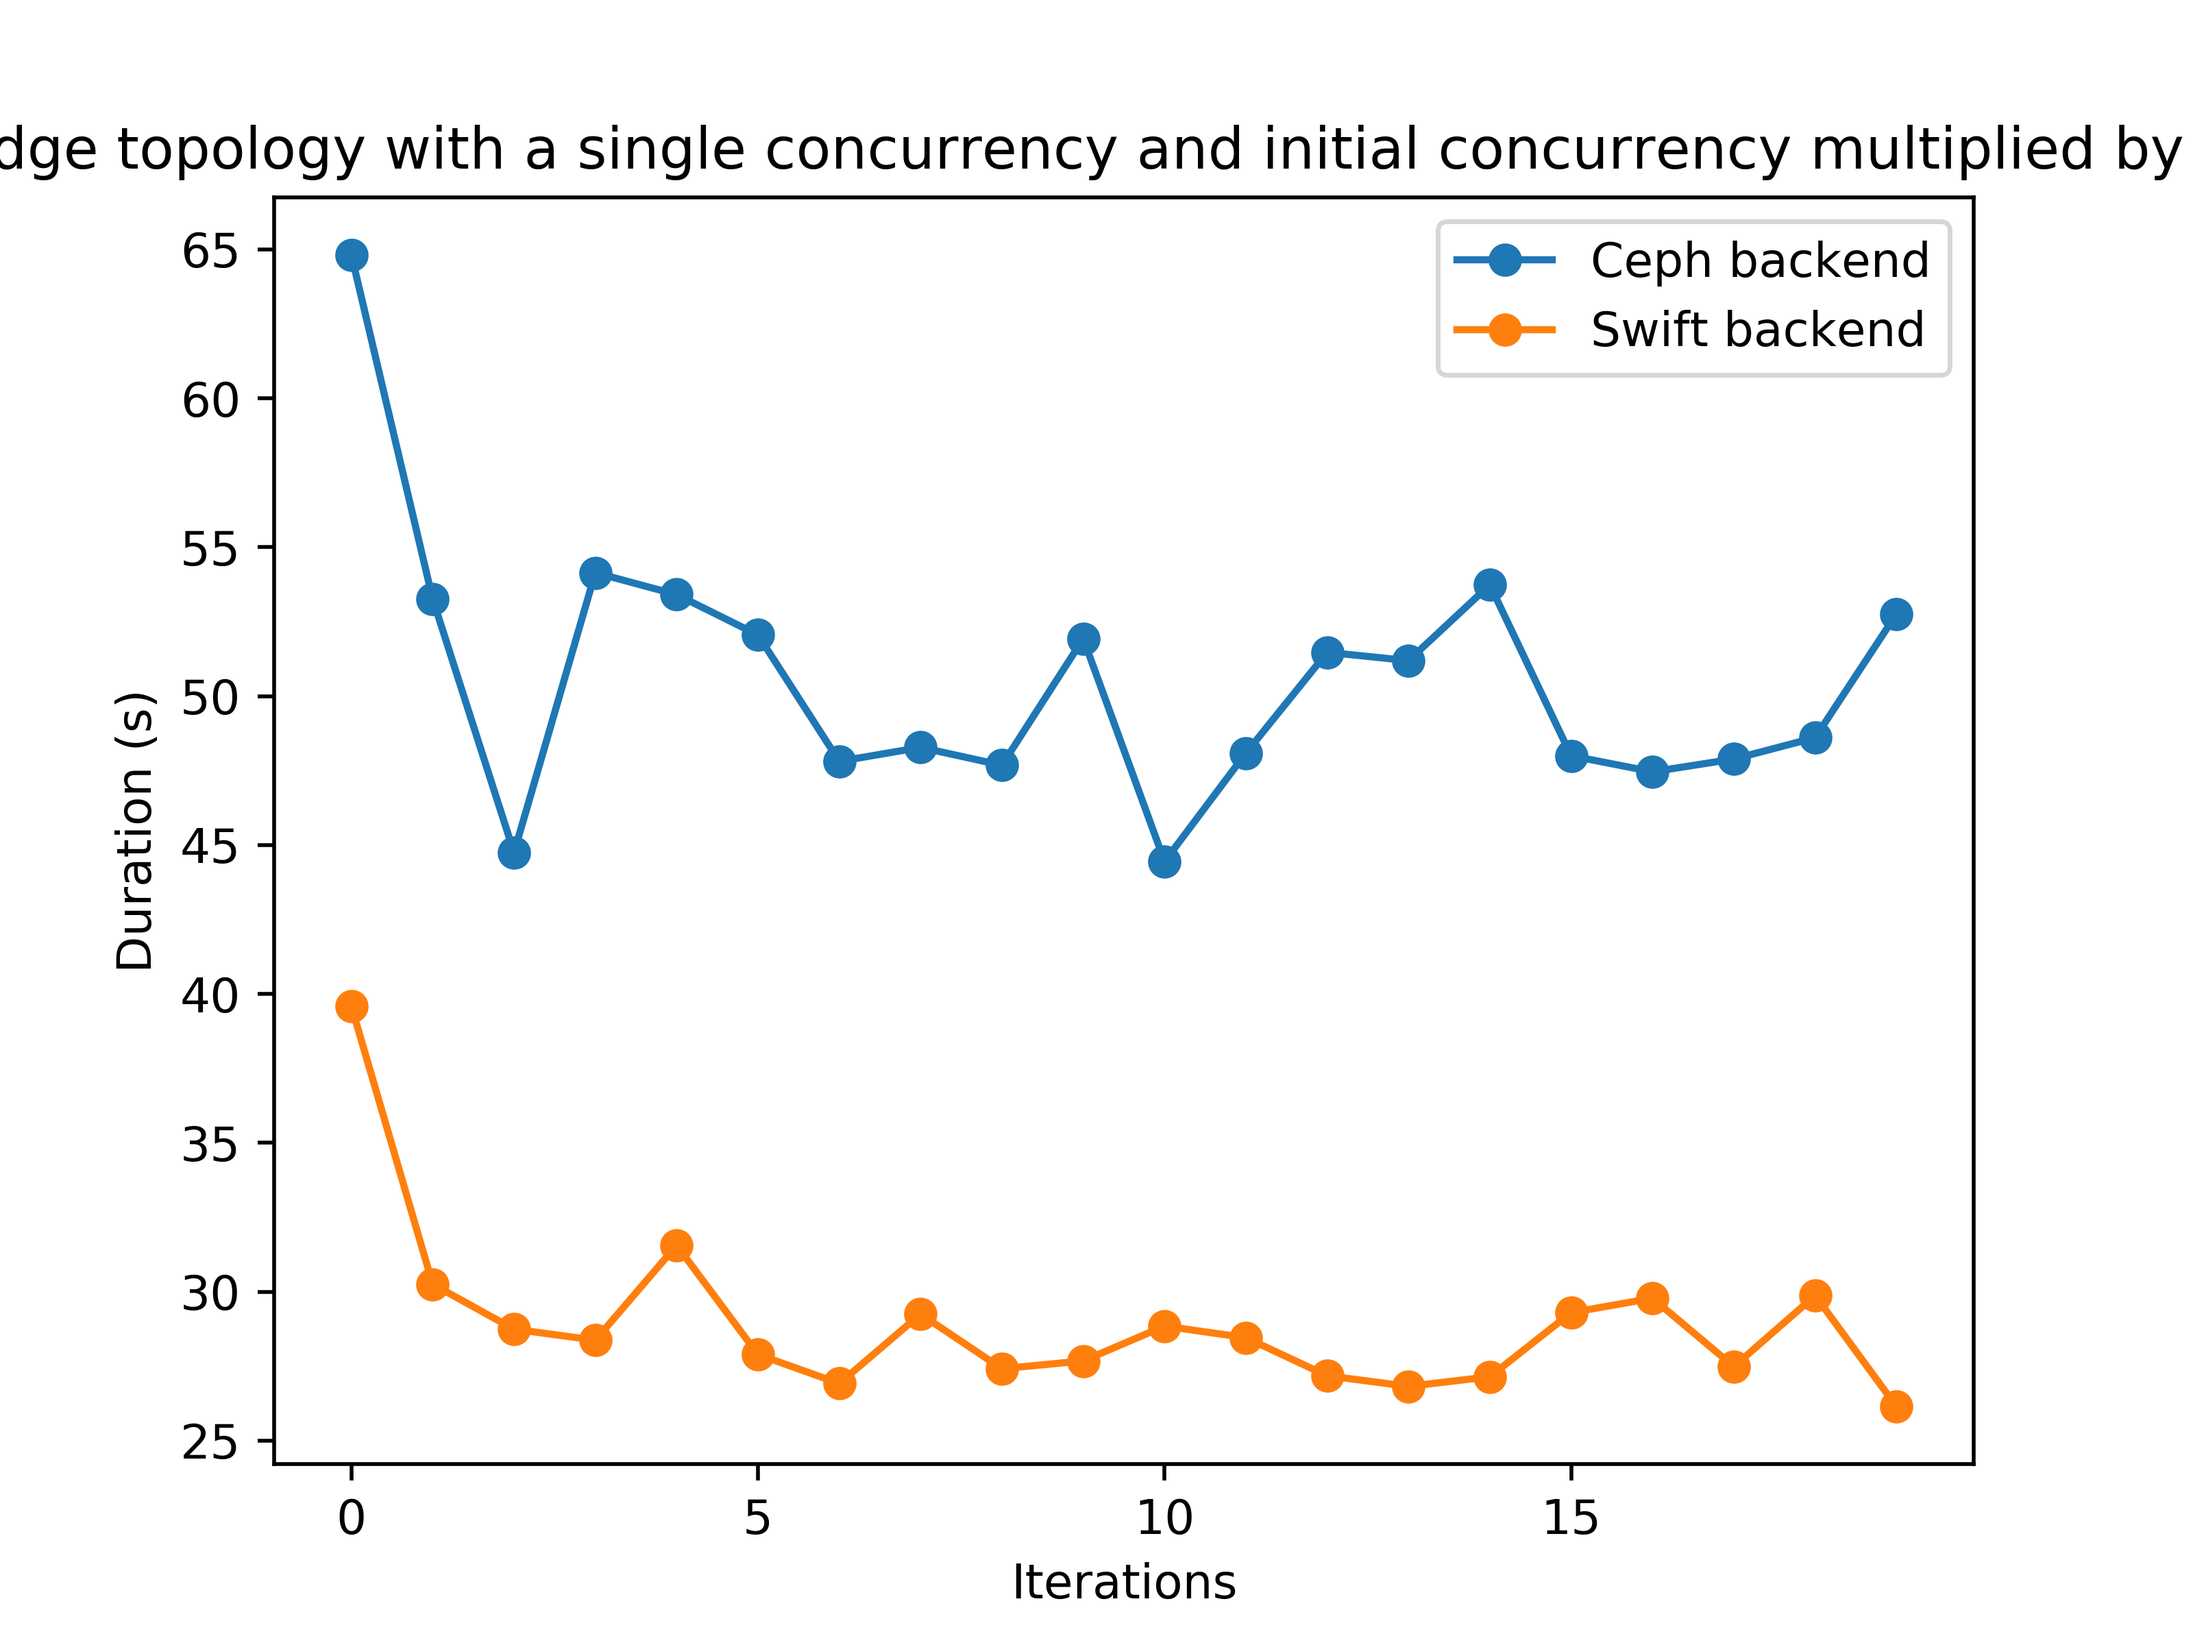
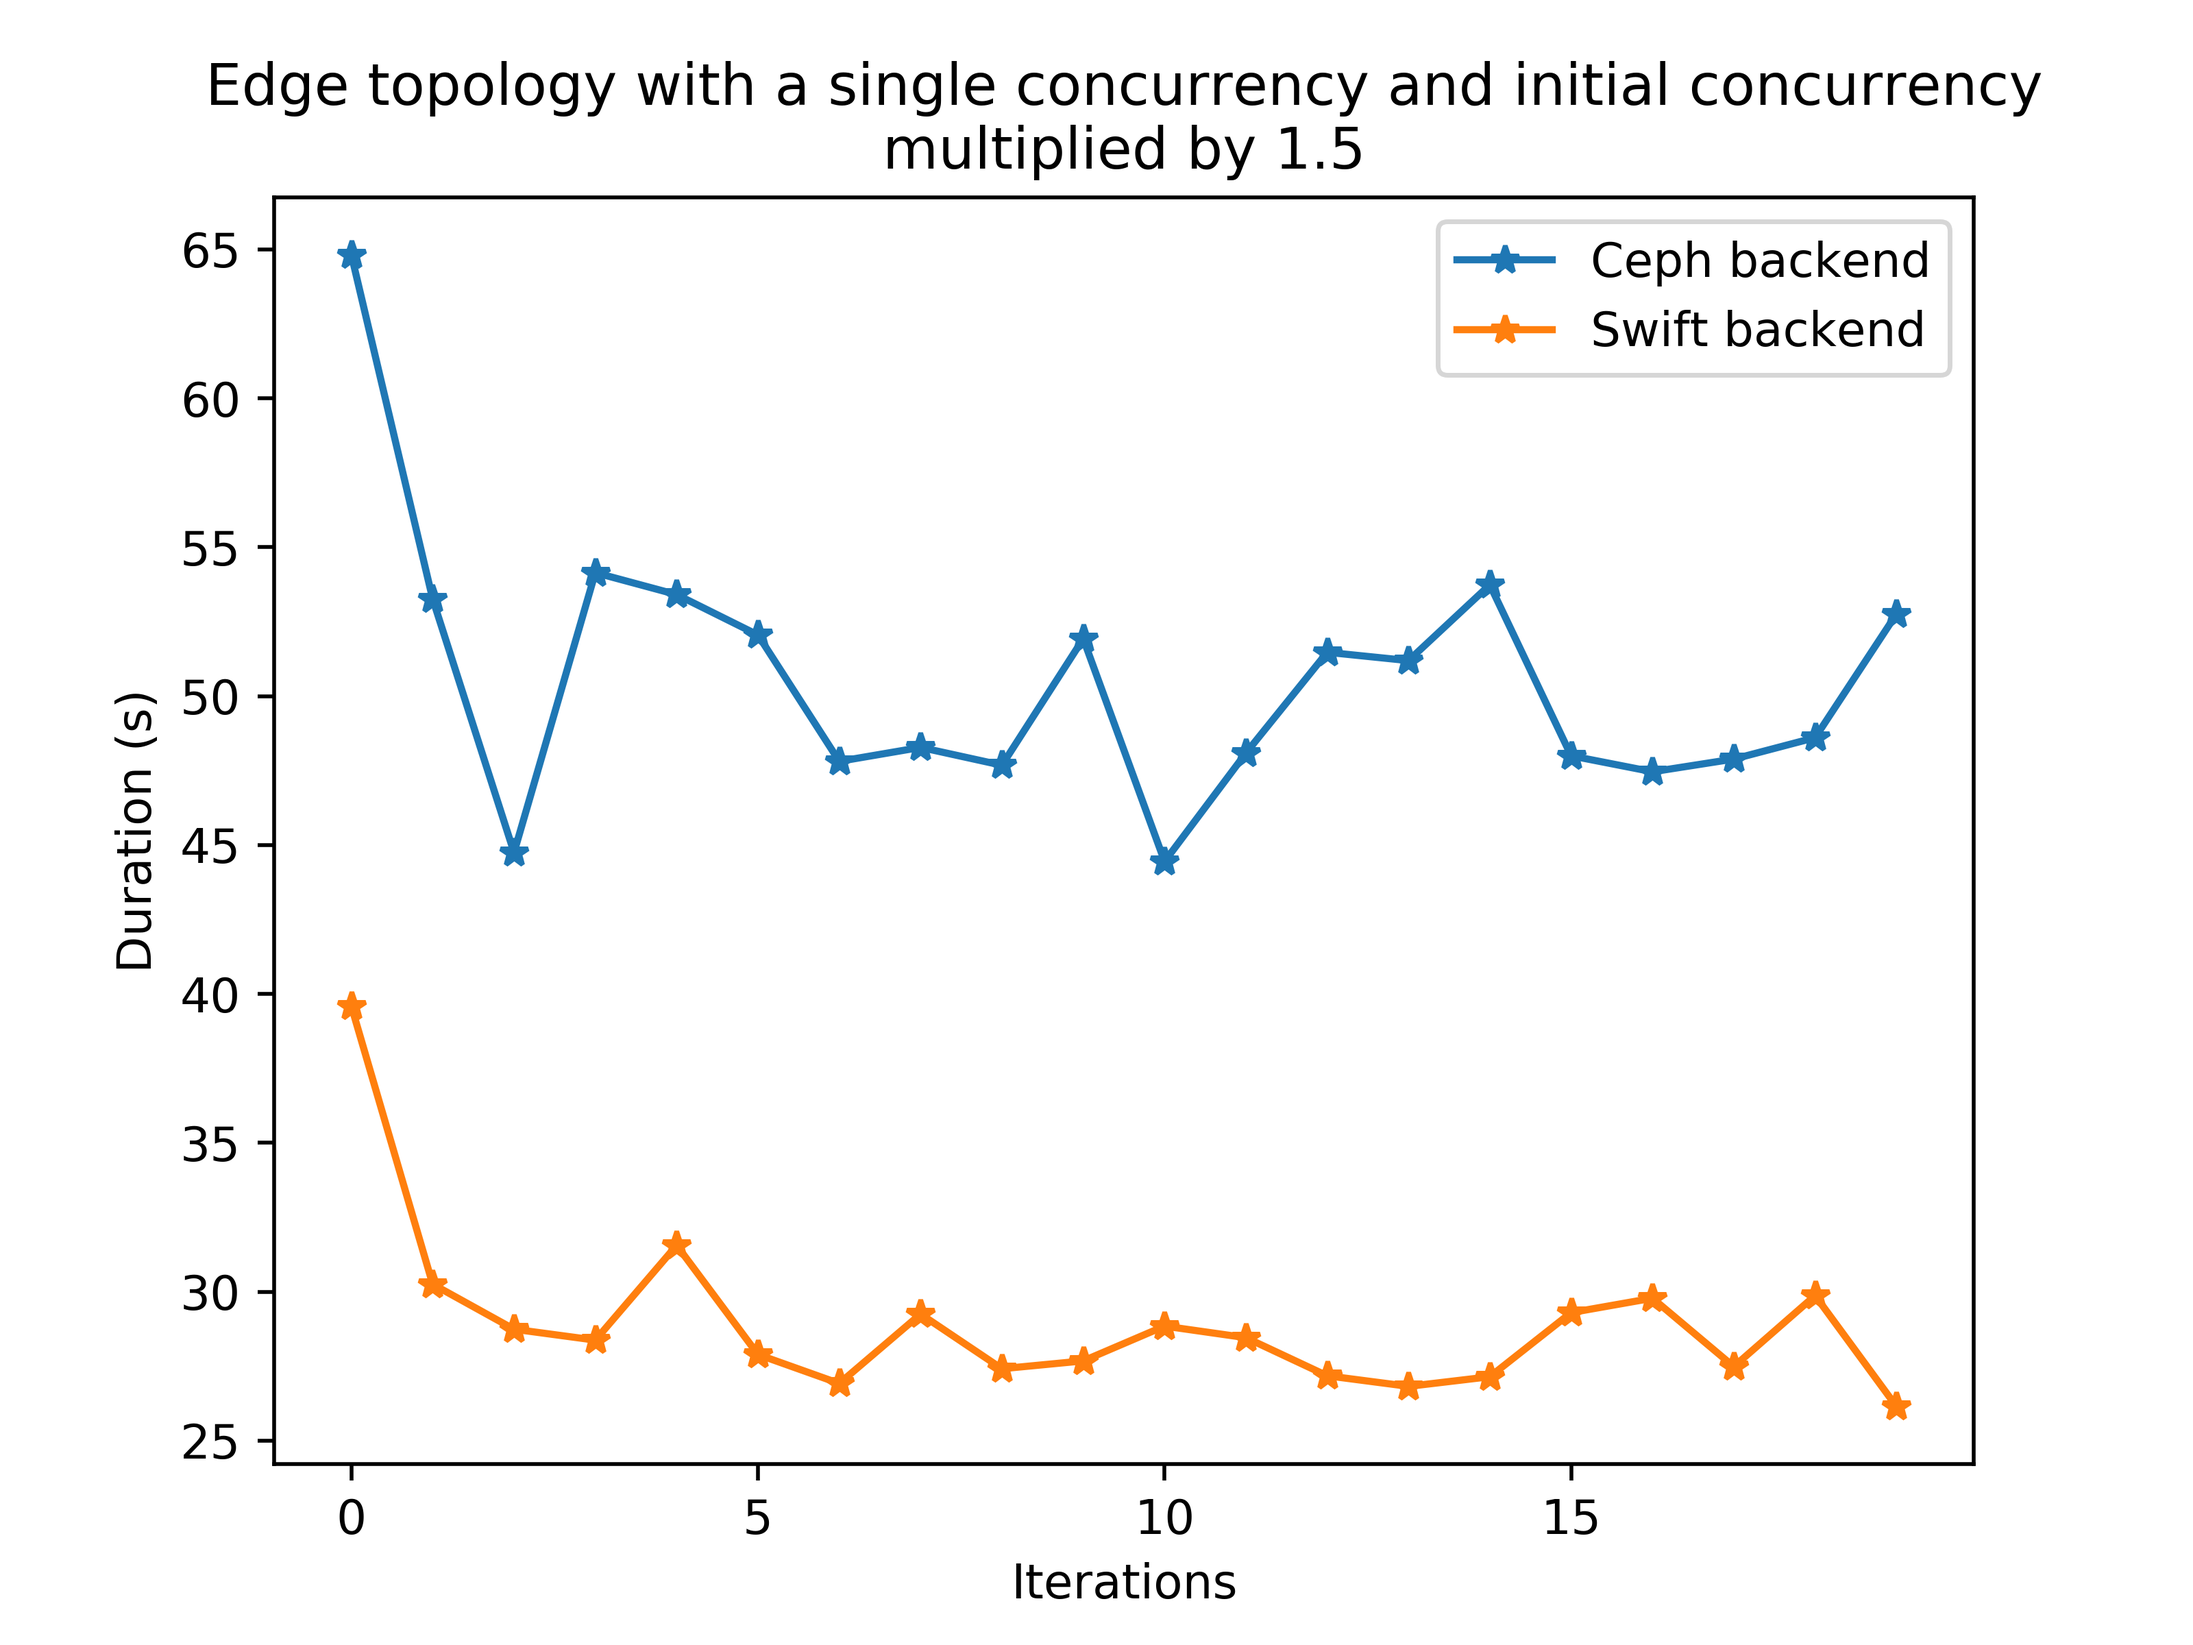
New line for curve

diff --git a/plot.py b/plot.py
@@ -40,6 +40,11 @@ def main(argv):
                       dest='title', 
                       metavar='TITLE', 
                       help='title on the graph')
+    parser.add_option('-n', '--title2', 
+                      type="string",
+                      dest='title2', 
+                      metavar='TITLE', 
+                      help='title new line on the graph')
 
     if len(sys.argv) == 1:
         parser.parse_args(['--help'])
@@ -61,7 +66,7 @@ def main(argv):
                 print("Your file is not a correct json file or the informations needed are not correctly formatted")
                 sys.exit(2)
 
-    plt.title(OPTIONS.title)
+    plt.title(OPTIONS.title + (('\n' + OPTIONS.title2) if OPTIONS.title2 else ''))
     plt.legend()
     plt.xlabel('Iterations')
     plt.ylabel('Duration (s)')
